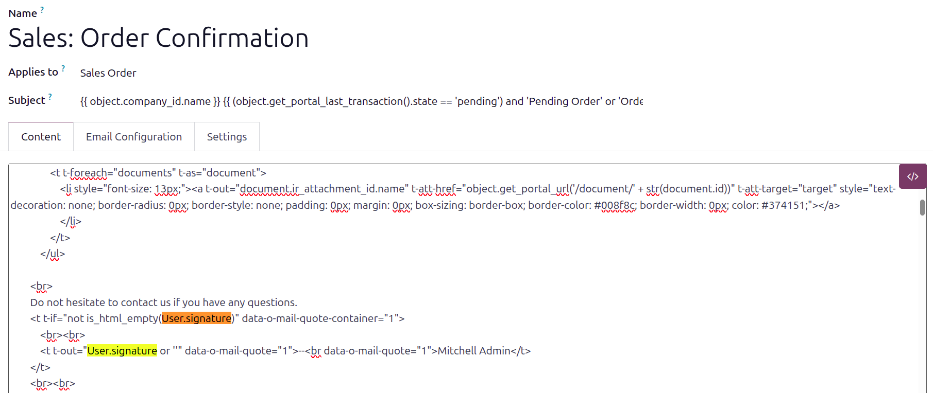
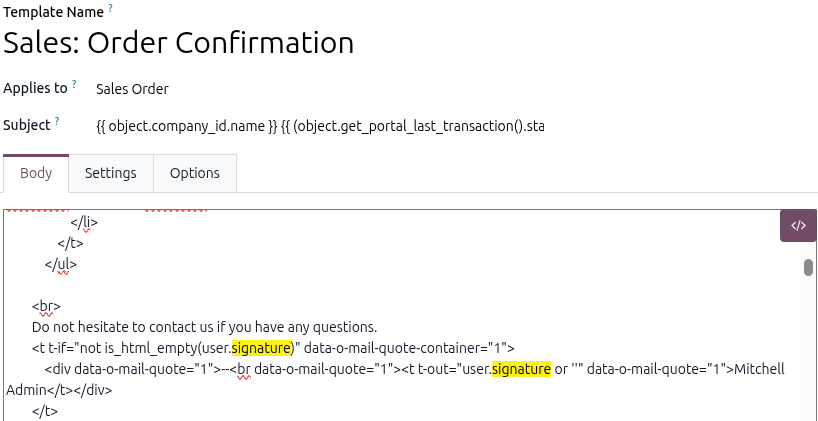
[FIX] sales: custom signature GUI changes

Changed region(s): [[0.0, 0.1527, 1.0, 1.0], [0.0, 0.0, 0.4584, 0.1527]]

diff --git a/content/applications/sales/sales/sales_quotations/custom_signatures.rst b/content/applications/sales/sales/sales_quotations/custom_signatures.rst
@@ -1,17 +1,22 @@
+.. meta::
+   :description: This page explains how to customize email template signatures so outgoing emails
+                 display the contact information of the employee responsible for customer follow-up,
+                 rather than the employee associated with the sales order for commission purposes.
+                 It covers updating the Send From field in the Settings tab and replacing
+                 object.user_id.signature with user.signature in the email body code.
+
 =======================
 Custom email signatures
 =======================
 
-Some business workflows require email template signatures to be updated so outgoing communications
-display the appropriate contact information for customer follow-up and correspondence.
+Some business workflows email template's signature needs updating so customers see the right contact
+for follow-ups. This is matters when sales team members share responsibility for a customer
+opportunity. For example, one employee may handle quotes and customer communications, while another
+is linked to the sales order for commission.
 
-This is particularly important when responsibility for a customer opportunity is shared between team
-members. In these cases, the employee responsible for managing quotes and customer communications
-may differ from the employee associated with the sales order for commission purposes.
-
-Email templates default to the signature of the employee assigned to the record; therefore the
-template should be modified to display the contact information of the employee responsible for
-customer follow-up. This ensures customers know who to contact with questions, approvals, and other
+By default, email templates use the signature of the employee assigned to the record. However, the
+email template can be customized to dynamically fill in the contact information of the employee
+sending the follow-up email, so customers know who to contact with questions, approvals, and other
 correspondence.
 
 .. note::
@@ -22,32 +27,37 @@ Open the email template
 =======================
 
 To modify an email template, first :ref:`activate developer mode <developer-mode/activation>`, then
-navigate to :menuselection:`Settings app --> Technical --> Email Templates`. Click on the email
-template being modified, in this case, the `Sales: Order Confirmation` template.
+navigate to :menuselection:`Settings app --> Technical --> Email Templates`. Click the email
+template to modify. For this example, it is the `Sales: Order Confirmation` template.
 
-Update from field
+Modify the sender
 =================
 
-On the email template, open the *Email Configuration* tab. Delete the default text in the
-:guilabel:`From` field and replace it with: `{{ (user.email_formatted) }}`.
+On the email template, open the *Settings* tab. Delete the default text in the :guilabel:`Send From`
+field and replace it with: `{{ (user.email_formatted) }}`.
 
 .. image:: custom_signatures/from-field.png
-   :alt: The from field updated with the correct text.
+   :alt: The Send From field updated with the correct text.
 
-Modify the code
-===============
+Modify the email signature
+==========================
 
-Click the *Content* tab, and highlight some text so the toolbar is visible. Click the :guilabel:`</>
-(Code view)` button and the text changes to code.
+To modify the signature in the email body text, follow these steps:
 
-Search the code for `signature` to find the two instances of the code `object.user_id.signature`.
-Replace both `object.user_id.signature` instances with `User.signature`.
+#. Click the *Body* tab.
+#. Highlight some text so the toolbar is visible.
+#. Click the :icon:`oi-ellipsis-v` :guilabel:`(Expand toolbar)` icon, then click the :icon:`fa-code`
+   :guilabel:`(Code view)` icon.
+#. Search for `signature` to find the two instances of `object.user_id.signature`.
+#. Replace both instances of `object.user_id.signature` with `user.signature`.
 
 .. image:: custom_signatures/code.png
-   :alt: The two 'object.user_id.signature' fields replaced with 'User.signature'.
+   :alt: The two instances of 'object.user_id.signature' replaced with 'user.signature'.
 
 .. tip::
-   If a user has not set up their email signature, instead of having the default `Mitchell Admin`
-   populate the signature, the company name can be displayed instead.
+   If a user has not set up their email signature, the default signature uses `Mitchell Admin` as a
+   placeholder. To display the company name instead, search for `Mitchell Admin` in the code, and
+   replace it with the company name.
 
-   To do this, search for `Mitchell Admin` in the code, and replace it with the company name.
+.. seealso::
+   :doc:`../../../general/companies/email_template`
